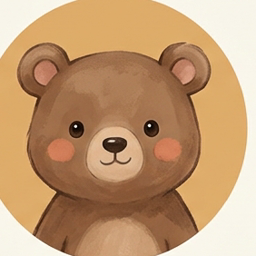
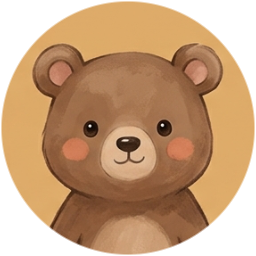
Fix 6 UI audit items: transparent centered animal PNGs, vocab/membership mobile nav & headers, hide footer.player-dock & Darcy on practice, remove dates and cover scrim

diff --git a/js/views.js b/js/views.js
@@ -463,7 +463,7 @@ export function renderLibraryPage(root, navigate) {
     }
 
     root.innerHTML = `
-      ${renderHeader('library')}
+      <div class="tt-desktop-only-header">${renderHeader('library')}</div>
       <main class="page-container tt-courses-page">
         <div class="tt-mobile-courses-head">
           <div class="tt-brand-overline">Justmet · TalkTalk</div>
@@ -572,7 +572,7 @@ export function renderLibraryPage(root, navigate) {
               const speakerInitial = (ep.speaker || 'J').trim().charAt(0).toUpperCase();
               return `
                 <article class="episode-card" data-ep-id="${ep.id}" data-locked="${isLocked ? '1' : '0'}">
-                  <div class="episode-thumb" style="background:${ep.coverImage ? `linear-gradient(rgba(27,20,18,0.22),rgba(27,20,18,0.42)), url('${ep.coverImage}') center/cover no-repeat` : ep.coverGradient};overflow:hidden;">
+                  <div class="episode-thumb" style="background:${ep.coverImage ? `url('${ep.coverImage}') center/cover no-repeat` : ep.coverGradient};overflow:hidden;">
                     ${
                       !ep.coverImage && ep.mediaUrl && ep.mediaKind !== 'audio'
                         ? `<video src="${ep.mediaUrl}#t=4" muted playsinline preload="metadata" style="position:absolute;inset:0;width:100%;height:100%;object-fit:cover;z-index:0;filter:brightness(0.86);"></video>`
@@ -602,9 +602,8 @@ export function renderLibraryPage(root, navigate) {
                       ${ep.tags.slice(0, 3).map((t) => `<span class="tag-chip">${escapeHtml(t)}</span>`).join('')}
                       ${ep.tags.length > 3 ? `<span class="tag-chip">+${ep.tags.length - 3}</span>` : ''}
                     </div>
-                    <div class="episode-meta">
+                    <div class="episode-meta episode-meta-duration">
                       <span>${ep.durationLabel}</span>
-                      <span>${ep.date}</span>
                     </div>
                     <div class="ep-progress-row">
                       <div class="progress-track">
@@ -687,8 +686,11 @@ export function renderVocabPage(root, navigate) {
   const renderInner = () => {
     const items = store.state.vocabBook;
     root.innerHTML = `
-      ${renderHeader('vocab')}
-      <main class="page-container">
+      <div class="tt-desktop-only-header">${renderHeader('vocab')}</div>
+      <main class="page-container tt-mobile-padded-page">
+        <div class="tt-mobile-courses-head">
+          <div class="tt-brand-overline">Justmet · TalkTalk</div>
+        </div>
         <div style="display:flex;align-items:center;justify-content:space-between;margin-bottom:20px;">
           <div>
             <h1 style="font-family:var(--font-serif);font-size:26px;">我的生词本</h1>
@@ -728,6 +730,7 @@ export function renderVocabPage(root, navigate) {
           }
         </div>
       </main>
+      ${renderMobileBottomNav('vocab')}
     `;
     bindHeaderEvents(navigate);
     root.querySelectorAll('.remove-vocab-btn').forEach((btn) => {
@@ -911,8 +914,11 @@ function bindHeaderEvents(navigate) {
 export function renderMembershipPage(root, navigate) {
   const renderInner = () => {
     root.innerHTML = `
-      ${renderHeader('membership')}
-      <main class="page-container">
+      <div class="tt-desktop-only-header">${renderHeader('membership')}</div>
+      <main class="page-container tt-mobile-padded-page">
+        <div class="tt-mobile-courses-head">
+          <div class="tt-brand-overline">Justmet · TalkTalk</div>
+        </div>
         <section style="display:flex;align-items:flex-end;justify-content:space-between;flex-wrap:wrap;gap:16px;margin-bottom:24px;">
           <div>
             <span class="pill" style="margin-bottom:8px;">✦ 300 期精听课程已包含在基础权益 · 以下为进阶提效增值服务</span>
@@ -970,7 +976,7 @@ export function renderMembershipPage(root, navigate) {
           </div>
         </section>
       </main>
-      ${renderMobileBottomNav('library')}
+      ${renderMobileBottomNav('membership')}
     `;
 
     bindHeaderEvents(navigate);

diff --git a/styles.css b/styles.css
@@ -2392,7 +2392,6 @@ html[data-dark="true"] .blind-overlay {
   border-radius: 50%;
   object-fit: cover;
   object-position: center center;
-  transform: scale(1.06);
   display: block;
 }
 
@@ -2788,11 +2787,6 @@ html[data-dark="true"] .blind-overlay {
     margin: 0 !important;
   }
 
-  /* 手机版不显示日期，让卡片更清爽 */
-  .tt-courses-page .episode-meta:last-of-type > span:last-child {
-    display: none !important;
-  }
-
   .tt-courses-page .speaker-row {
     color: #847068 !important;
   }
@@ -2860,12 +2854,15 @@ html[data-dark="true"] .blind-overlay {
     place-items: center;
   }
 
-  /* 隐藏桌面端冗余控制栏（.bottom-dock / .tool-rail / .ep-title-bar），保留极简底部 6 按钮主控条 */
+  .tt-mobile-padded-page {
+    padding-bottom: 92px !important;
+  }
+
+  /* 隐藏桌面端冗余控制栏（真实节点 footer.player-dock / .tool-rail / .ep-title-bar），保留极简底部 6 按钮主控条 */
   .practice-shell .practice-top-collapse,
   .practice-shell .tool-rail,
   .practice-shell .ep-title-bar,
-  .practice-shell .bottom-dock,
-  .practice-shell .practice-dock {
+  .practice-shell footer.player-dock {
     display: none !important;
   }
 

diff --git a/js/store.js b/js/store.js
@@ -2,14 +2,14 @@
 import { THEMES } from './data.js';
 
 export const USER_AVATARS = [
-  './assets/avatars/animal_01.png?v=2',
-  './assets/avatars/animal_02.png?v=2',
-  './assets/avatars/animal_03.png?v=2',
-  './assets/avatars/animal_04.png?v=2',
-  './assets/avatars/animal_05.png?v=2',
-  './assets/avatars/animal_06.png?v=2',
-  './assets/avatars/animal_07.png?v=2',
-  './assets/avatars/animal_08.png?v=2',
+  './assets/avatars/animal_01.png?v=3',
+  './assets/avatars/animal_02.png?v=3',
+  './assets/avatars/animal_03.png?v=3',
+  './assets/avatars/animal_04.png?v=3',
+  './assets/avatars/animal_05.png?v=3',
+  './assets/avatars/animal_06.png?v=3',
+  './assets/avatars/animal_07.png?v=3',
+  './assets/avatars/animal_08.png?v=3',
 ];
 
 const STORAGE_KEY = 'justmet_universe_state_v1';

diff --git a/js/darcy_companion.js b/js/darcy_companion.js
@@ -221,9 +221,10 @@ function downloadPolaroidPng(phrases, whisper, mins, day) {
 function updateDarcyUI() {
   const wrap = document.getElementById('darcy-companion-root');
   if (!wrap) return;
-  const isEnterPage = !window.location.hash || window.location.hash === '#/login';
-  wrap.style.display = isEnterPage ? 'none' : 'block';
-  if (isEnterPage) {
+  const h = window.location.hash || '';
+  const shouldHide = !h || h === '#/login' || h.startsWith('#/episode/');
+  wrap.style.display = shouldHide ? 'none' : 'block';
+  if (shouldHide) {
     nestOpen = false;
     return;
   }
